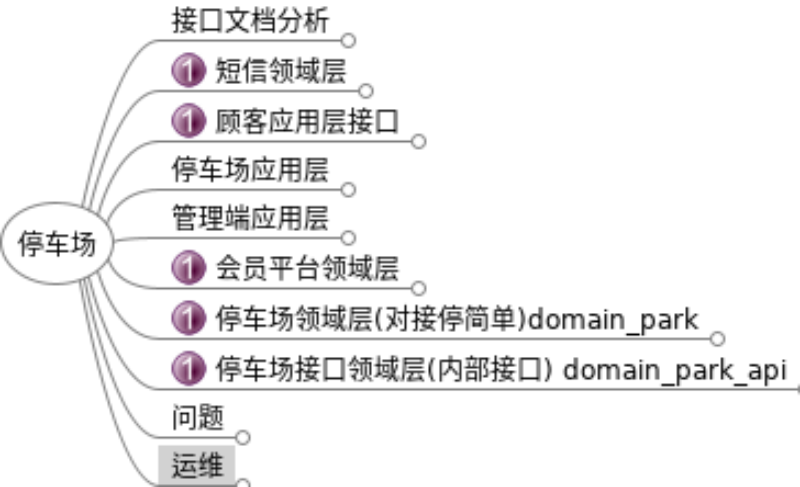
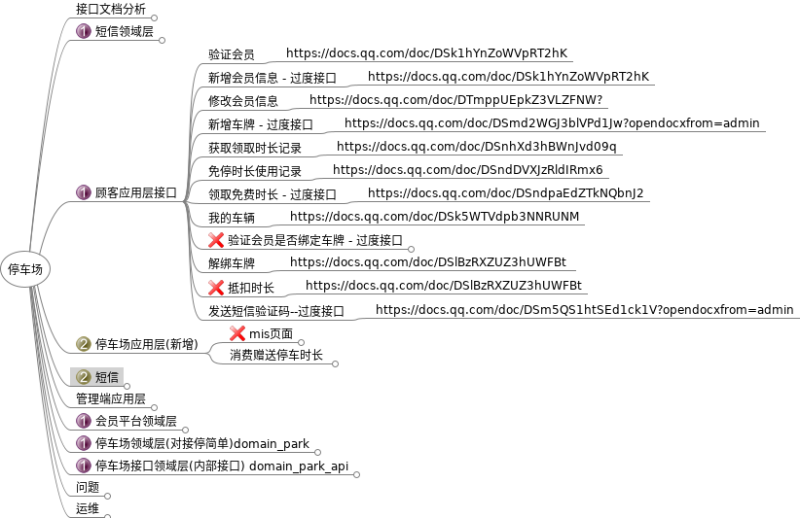
modify park mm

Changed region(s): [[0.0, 0.0, 1.0, 1.0], [0.0312, 0.1848, 0.0625, 0.3696]]

diff --git a/mm/停车场/停车场.mm b/mm/停车场/停车场.mm
@@ -34,7 +34,7 @@
 <node CREATED="1565772184530" ID="ID_1983527587" MODIFIED="1565772185021" TEXT="https://docs.qq.com/doc/DSm5QS1htSEd1ck1V?opendocxfrom=admin"/>
 </node>
 </node>
-<node CREATED="1565768661817" FOLDED="true" ID="ID_1171392039" MODIFIED="1591782396123" POSITION="right" TEXT="&#x987e;&#x5ba2;&#x5e94;&#x7528;&#x5c42;&#x63a5;&#x53e3;">
+<node CREATED="1565768661817" ID="ID_1171392039" MODIFIED="1596090213956" POSITION="right" TEXT="&#x987e;&#x5ba2;&#x5e94;&#x7528;&#x5c42;&#x63a5;&#x53e3;">
 <icon BUILTIN="full-1"/>
 <node CREATED="1566294724306" ID="ID_1445504909" MODIFIED="1591689935752" TEXT="&#x9a8c;&#x8bc1;&#x4f1a;&#x5458;">
 <node CREATED="1566294747258" ID="ID_266552520" MODIFIED="1566294747908" TEXT="https://docs.qq.com/doc/DSk1hYnZoWVpRT2hK"/>
@@ -75,8 +75,10 @@
 <node CREATED="1565772184530" ID="ID_981040397" MODIFIED="1565772185021" TEXT="https://docs.qq.com/doc/DSm5QS1htSEd1ck1V?opendocxfrom=admin"/>
 </node>
 </node>
-<node CREATED="1566465003570" FOLDED="true" ID="ID_887705455" MODIFIED="1591781222379" POSITION="right" TEXT="&#x505c;&#x8f66;&#x573a;&#x5e94;&#x7528;&#x5c42;">
-<node CREATED="1566202306648" ID="ID_1927349749" MODIFIED="1566465082971" TEXT="mis&#x9875;&#x9762;">
+<node CREATED="1566465003570" ID="ID_887705455" MODIFIED="1596092717544" POSITION="right" TEXT="&#x505c;&#x8f66;&#x573a;&#x5e94;&#x7528;&#x5c42;(&#x65b0;&#x589e;)">
+<icon BUILTIN="full-2"/>
+<node CREATED="1566202306648" FOLDED="true" ID="ID_1927349749" MODIFIED="1596092441049" TEXT="mis&#x9875;&#x9762;">
+<icon BUILTIN="button_cancel"/>
 <node CREATED="1566202318103" ID="ID_1079470447" MODIFIED="1566202327657" TEXT="&#x4f1a;&#x5458;&#x8f66;&#x8f86;&#x67e5;&#x8be2;">
 <node CREATED="1566202335609" ID="ID_443533254" MODIFIED="1566202335884" TEXT="https://docs.qq.com/doc/DSm9qY3VSdVBQYnJR"/>
 </node>
@@ -87,9 +89,14 @@
 <node CREATED="1566202889250" ID="ID_1517260899" MODIFIED="1566202889587" TEXT="https://docs.qq.com/doc/DSkdSYnBHZW5HWXZK"/>
 </node>
 </node>
-<node CREATED="1566465088034" ID="ID_1695904711" MODIFIED="1566465130483" TEXT="&#x6d88;&#x8d39;&#x8d60;&#x9001;&#x505c;&#x8f66;&#x65f6;&#x957f; ">
+<node CREATED="1566465088034" FOLDED="true" ID="ID_1695904711" MODIFIED="1596095001562" TEXT="&#x6d88;&#x8d39;&#x8d60;&#x9001;&#x505c;&#x8f66;&#x65f6;&#x957f; ">
 <node CREATED="1566465136298" ID="ID_762518424" MODIFIED="1566465136699" TEXT="https://docs.qq.com/doc/DSnphd0x1d3puU3hM"/>
 </node>
+</node>
+<node CREATED="1596094968430" FOLDED="true" ID="ID_1597917055" MODIFIED="1596095002951" POSITION="right" TEXT="&#x77ed;&#x4fe1;">
+<icon BUILTIN="full-2"/>
+<node CREATED="1596094973815" ID="ID_589793557" MODIFIED="1596094992043" TEXT="&#x6d88;&#x8d39;&#x6210;&#x529f;https://docs.qq.com/doc/DSnphd0x1d3puU3hM"/>
+<node CREATED="1596094979941" ID="ID_1813911540" MODIFIED="1596094995912" TEXT="&#x51fa;&#x573a;https://docs.qq.com/doc/DSnphd0x1d3puU3hM"/>
 </node>
 <node CREATED="1565946890063" FOLDED="true" ID="ID_20940406" MODIFIED="1591345023598" POSITION="right" TEXT="&#x7ba1;&#x7406;&#x7aef;&#x5e94;&#x7528;&#x5c42;">
 <node CREATED="1565946988840" ID="ID_989658342" MODIFIED="1565946996801" TEXT="&#x505c;&#x8f66;&#x6a21;&#x5757;">
